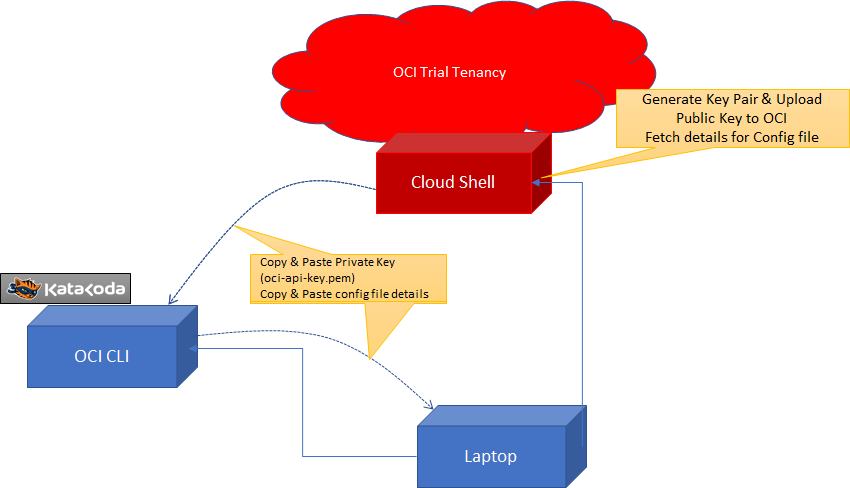
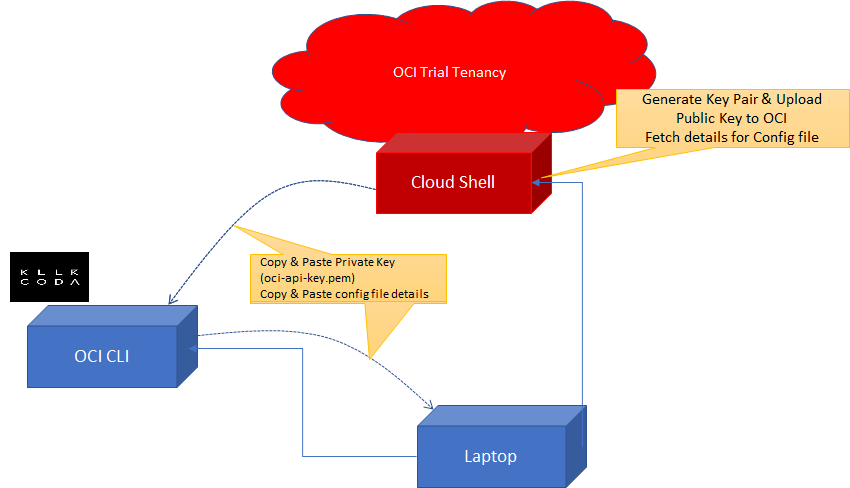
Fixed variables

Changed region(s): [[0.0, 0.4918, 0.1529, 0.6455]]

diff --git a/dark-oci-api-gateway/step4.md b/dark-oci-api-gateway/step4.md
@@ -7,12 +7,12 @@ With the OCI CLI ready to execute commands to our tenant, we can proceed to crea
 We've created a compartment with the name **darkCompartment** which will contain all the elements that we will create in the following order:
 
 * VCN
-* OCI API Gateway
+* OCI API Gateway and Deployment
 * NetFoundry Edge Router
 
 ## Create VCN and Private Subnet 
 
-We'll create the network resources using Terraform, all the resources: VCN, Subnet, Security Lists, NAT Gateway, Route Tables, etc, will be created with it.
+We'll create the network resources using Terraform, all its resources like: VCN, Subnet, Security Lists, NAT Gateway, Route Tables, etc, will be provisioned with it.
 Let's first clone the repository of the Terraform Plans:
 
 `git clone`{{execute}}
@@ -22,16 +22,14 @@ Let's set the required variables to execute our terraform plan:
 ```
 export TF_VAR_compartment_ocid=$darkCompartmentId
 export TF_VAR_vcn_name=demoDarkVCN
-```
+```{{execute}}
 
 Now let's apply the plan (it will take around 30 seconds to be executed):
 
 ```
-cd <Directory>
-
+cd ./darkOCIAPIGateway/darkVCN
 terraform init -upgrade
 terraform apply -auto-approve
-
 ```{{execute}}
 
 Now that we've created the VCN and the subnet, let's set some environment variables:
@@ -46,6 +44,6 @@ echo $TF_VAR_subnet_ocid
 ```{{execute}}
 
 
-What we have created is a fully private VCN with one subnet. The only communication that this subnet could receive is from within its own CIDR block. Which is exactly what we need. On top of it we will deploy the OCI API Gateway and make it Dark. 
+What we have created is a fully private VCN with one subnet. The only communication that this subnet could receive is from within its own CIDR block. Which is exactly what we need. On top of it we will deploy the OCI API Gateway and turn it Dark. 
 
 In the next steps you'll create all the NetFoundry resources.

diff --git a/dark-oci-api-gateway/intro.md b/dark-oci-api-gateway/intro.md
@@ -1,7 +1,7 @@
-This scenario will guide you in deploying a Dark OCI API Gateway in very few steps using OpenZitio.io.
+This scenario will guide you on deploying a Dark OCI API Gateway in very few steps using OpenZitio.io.
 The scenario not only that will deploy the whole infrastructure to make this happen, but will also provide a Node.js REST client to consume a Dark API.
 
-It considers to deploy an OCI API Gateway completely private (OCI private subnet) with no open ports for inbound traffic, but still from the Node.js client running in the killercoda terminal, you'll be able to call/connect the REST API deployed on OCI API Gateway.
+It considers to deploy an OCI API Gateway completely private (OCI private subnet) with no open ports for inbound traffic, but still from a Node.js client running in the killercoda terminal, you'll be able to call/connect the REST API deployed on OCI API Gateway.
 
 ![](https://raw.githubusercontent.com/rcarrascosps/tester-kc/main/dark-oci-api-gateway/assets/intro.png?raw=true)
 

diff --git a/dark-oci-api-gateway/step5.md b/dark-oci-api-gateway/step5.md
@@ -16,6 +16,10 @@ Fill the blanks with the following info:
 
 ![](https://raw.githubusercontent.com/rcarrascosps/tester-kc/main/dark-oci-api-gateway/assets/netCreateAPI2.png?raw=true)
 
+Once created, copy the respective values (use the respective blue buttons to copy the different values):
+
+![](https://raw.githubusercontent.com/rcarrascosps/tester-kc/main/dark-oci-api-gateway/assets/netCopyValues2.png?raw=true)
+
 Copy the client_ID, and paste it in the next step:
 
 ```
@@ -36,6 +40,10 @@ Copy the URL, and paste it in the next step:
 echo "Please enter the URL from the Copy URL: "
 read nfOAuthURL 
 ```{{exec}}
+
+Then click on the "OK, ALL SET" button:
+
+![](https://raw.githubusercontent.com/rcarrascosps/tester-kc/main/dark-oci-api-gateway/assets/okAllSet.png?raw=true)
 
 Then let's assign roles to our API account. Click on the three dots:
 

diff --git a/dark-oci-api-gateway/step7.md b/dark-oci-api-gateway/step7.md
@@ -1,8 +1,10 @@
 ## Create an OCI API Gateway
 
-We are going to create the OCI API Gateway using the OCI CLI.
+Let's move to the working directory for the OCI API Gateway:
 
-`cd Directory`{{execute}}
+`cd ../etc/deployment`{{execite}}
+
+We are going to create the OCI API Gateway using the OCI CLI.
 
 First we need to set some variables:
 
@@ -27,7 +29,6 @@ We need first to set some environment variables:
 ```
 export endpoint_type=PRIVATE
 export path_prefix="/api"
-
 ```{{execute}}
 
 And now we can create the deployment:

diff --git a/dark-oci-api-gateway/step2.md b/dark-oci-api-gateway/step2.md
@@ -1,6 +1,6 @@
 # Install cURL, jq, Node and NPM
 
-Before we setup our tenant, we need to install a set of tools in our KillerCoda terminal, let's do it.
+Before we setup all the elements we need to install a set of tools in our KillerCoda terminal.
 
 Click on the next box and wait for the script to be executed. After it gets executed Node and NPM will be installed.
 

diff --git a/dark-oci-api-gateway/step6.md b/dark-oci-api-gateway/step6.md
@@ -1,10 +1,10 @@
 ## Move to the directory that holds the Terraform plan to deploy the Edge Router
 
-`cd Directory`{{execute}}
+`cd ../darkER`{{execute}}
 
 We need to copy the public key to the user directory. 
 
-`cp ./keys/id_rsa.pub ~/.ssh/`{{execute}}
+`cp ../etc/keys/id_rsa.pub ~/.ssh/`{{execute}}
 
 
 ## Let's deploy an Edge Router in OCI

diff --git a/dark-oci-api-gateway/step8.md b/dark-oci-api-gateway/step8.md
@@ -40,7 +40,7 @@ You can check it with:
 
 Now we'll enroll our identity with the following command:
 
-`ziti.exe edge enroll --jwt killercoda.jwt --out killercoda.json`{{execute}}
+`ziti edge enroll --jwt killercoda.jwt --out killercoda.json`{{execute}}
 
 The SDK is going to use the json file generated in the previous step.
 
